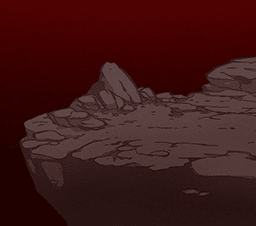
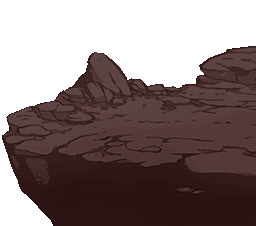
Stage 1 and 2 BG reimport

diff --git a/src/stage/weekt2.c b/src/stage/weekt2.c
@@ -16,6 +16,7 @@ typedef struct
 	StageBack back;
 	
 	//Textures
+	Gfx_Tex tex_back2; //Window
 	Gfx_Tex tex_back1; //Window
 	Gfx_Tex tex_back0;
 
@@ -525,26 +526,65 @@ void Back_WeekT2_DrawBG(StageBack *back)
 	fy = stage.camera.y;
 	
 	//Draw window
-	RECT window_src = { 0, 0, 256, 226 };
+	RECT window_src = { 0, 55, 256, 171 };
 	RECT_FIXED window_dst = {
 		FIXED_DEC(-500,1) - fx,
-		FIXED_DEC(-150,1) - fy,
+		FIXED_DEC(-70,1) - fy,
 		FIXED_DEC(512,1),
-		FIXED_DEC(400,1)
+		FIXED_DEC(342,1)
 	};
 
 	Stage_DrawTex(&this->tex_back0, &window_src, &window_dst, stage.camera.bzoom);
 
 	//Draw window
-	RECT window1_src = { 0, 0, 256, 226 };
+	RECT window1_src = { 0, 55, 249, 171 };
 	RECT_FIXED window1_dst = {
-		FIXED_DEC(3,1) - fx,
-		FIXED_DEC(-150,1) - fy,
-		FIXED_DEC(512,1),
-		FIXED_DEC(400,1)
+		FIXED_DEC(0,1) - fx,
+		FIXED_DEC(-73,1) - fy,
+		FIXED_DEC(398,1),
+		FIXED_DEC(342,1)
 	};
 
 	Stage_DrawTex(&this->tex_back1, &window1_src, &window1_dst, stage.camera.bzoom);
+
+	fx = stage.camera.x * 4 / 5;
+	fy = stage.camera.y * 4 / 5;
+
+	//Draw rocks
+	RECT rocksl_src = { 0, 8, 246, 45};
+	RECT_FIXED rocksl_dst = {
+		FIXED_DEC(-460,1) - fx,
+		FIXED_DEC(-120,1) - fy,
+		FIXED_DEC(422,1),
+		FIXED_DEC(90,1)
+	};
+
+	Stage_DrawTex(&this->tex_back0, &rocksl_src, &rocksl_dst, stage.camera.bzoom);
+
+	//Draw rocks
+	RECT rocksr_src = { 0, 3, 200, 47 };
+	RECT_FIXED rocksr_dst = {
+		FIXED_DEC(-20,1) - fx,
+		FIXED_DEC(-123,1) - fy,
+		FIXED_DEC(400,1),
+		FIXED_DEC(94,1)
+	};
+
+	Stage_DrawTex(&this->tex_back1, &rocksr_src, &rocksr_dst, stage.camera.bzoom);
+
+
+	fx = stage.camera.x * 2 / 4;
+	fy = stage.camera.y * 2 / 4;
+
+	RECT bg_src = { 0, 0, 256, 256 };
+	RECT_FIXED bg_dst = {
+		FIXED_DEC(-300,1) - fx,
+		FIXED_DEC(-200,1) - fy,
+		FIXED_DEC(512,1),
+		FIXED_DEC(512,1)
+	};
+
+	Stage_DrawTex(&this->tex_back2, &bg_src, &bg_dst, stage.camera.bzoom);
 }
 
 void Back_WeekT2_Free(StageBack *back)
@@ -571,7 +611,7 @@ StageBack *Back_WeekT2_New(void)
 	
 	//Load background textures
 	IO_Data arc_back = IO_Read("\\WEEKT2\\BACK.ARC;1");
-	Gfx_LoadTex(&this->tex_back1, Archive_Find(arc_back, "back2.tim"), 0);
+	Gfx_LoadTex(&this->tex_back2, Archive_Find(arc_back, "back2.tim"), 0);
 	Gfx_LoadTex(&this->tex_back1, Archive_Find(arc_back, "back1.tim"), 0);
 	Gfx_LoadTex(&this->tex_back0, Archive_Find(arc_back, "back0.tim"), 0);
 	Gfx_LoadTex(&this->tex_cut0, Archive_Find(arc_back, "cut0.tim"), 0);

diff --git a/src/stage/weekt.c b/src/stage/weekt.c
@@ -197,7 +197,7 @@ void Back_WeekT_DrawBG(StageBack *back)
 	RECT window_src = {0, 0, 256, 226};
 	RECT_FIXED window_dst = {
 		FIXED_DEC(-500,1) - fx,
-		FIXED_DEC(-165,1) - fy,
+		FIXED_DEC(-145,1) - fy,
 		FIXED_DEC(512,1),
 		FIXED_DEC(400,1)
 	};
@@ -208,12 +208,41 @@ void Back_WeekT_DrawBG(StageBack *back)
 	RECT window1_src = { 0, 0, 256, 226};
 	RECT_FIXED window1_dst = {
 		FIXED_DEC(3,1) - fx,
-		FIXED_DEC(-165,1) - fy,
+		FIXED_DEC(-145,1) - fy,
 		FIXED_DEC(512,1),
 		FIXED_DEC(400,1)
 	};
 
 	Stage_DrawTex(&this->tex_back2, &window1_src, &window1_dst, stage.camera.bzoom);
+
+	fx = stage.camera.x * 2 / 4;
+	fy = stage.camera.y * 2 / 4;
+
+	if (stage.stage_id == StageId_1_1 && stage.song_step <= 1424)
+	{
+		RECT bg_src = { 0, 0, 256, 256 };
+		RECT_FIXED bg_dst = {
+			FIXED_DEC(-270,1) - fx,
+			FIXED_DEC(-200,1) - fy,
+			FIXED_DEC(512,1),
+			FIXED_DEC(512,1)
+		};
+
+		Stage_DrawTex(&this->tex_back0, &bg_src, &bg_dst, stage.camera.bzoom);
+	}
+
+	if (stage.stage_id == StageId_2_1)
+	{
+		RECT bg_src = { 0, 0, 256, 256 };
+		RECT_FIXED bg_dst = {
+			FIXED_DEC(-270,1) - fx,
+			FIXED_DEC(-200,1) - fy,
+			FIXED_DEC(512,1),
+			FIXED_DEC(512,1)
+		};
+
+		Stage_DrawTex(&this->tex_back0, &bg_src, &bg_dst, stage.camera.bzoom);
+	}
 }
 
 void Back_WeekT_Free(StageBack *back)
